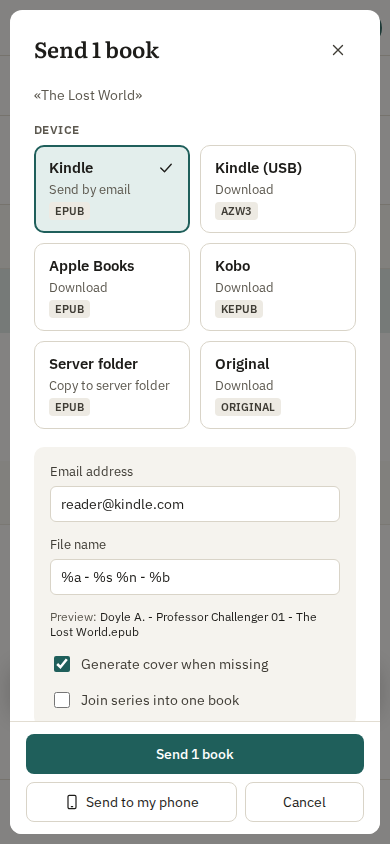
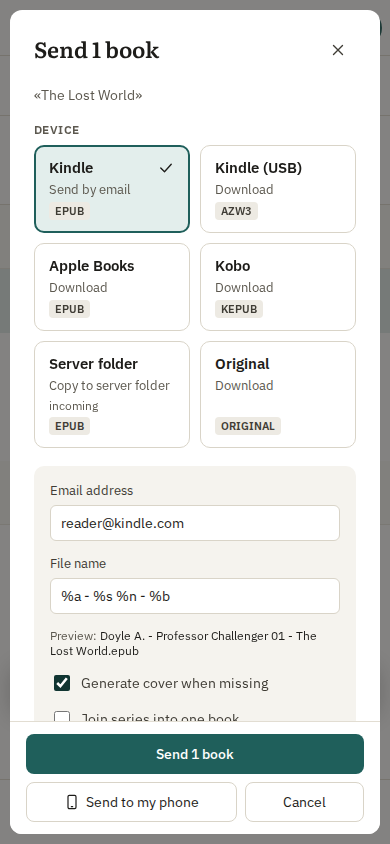
Folder devices: an empty folder is the export root, labelled as such
Revert the 400 for folder exports without a folder (server, mock, security
test): the seeded Server folder exports into FREELIB_EXPORT_DIR by design.
Instead of the misleading "no folder", Settings -> Devices and the send dialog
show "Export folder (root)" (en/ru/uk) or the sub-folder when one is set; the
send dialog no longer disables the device or asks for a folder. Docs and
live-ui tests follow; the keyboard test waits for editions to load.

Claude-Session: https://claude.ai/code/session_01CHpYdZBU1bJ65FXV23e9ED

diff --git a/web/src/lib/components/SendDialog.svelte b/web/src/lib/components/SendDialog.svelte
@@ -14,7 +14,6 @@
   import HandoffPanel from './HandoffPanel.svelte';
   import { openInBooks } from '../stores/devices.svelte';
   import { isIOS } from '../utils/platform';
-  import { sessionState } from '../stores/session.svelte';
 
   let { lib, bookIds, open, onClose, device: initialDevice, seriesIds = [] }: {
     lib: number; bookIds: number[]; open: boolean; onClose: () => void;
@@ -25,10 +24,6 @@
   } = $props();
 
   const ios = isIOS();
-  const admin = $derived(sessionState.openMode || sessionState.user?.role === 'admin');
-  /** a server folder device without a folder: admins type one here, readers cannot use it */
-  const noFolder = (d: Device) => d.kind === 'folder' && !(d.target ?? '').trim();
-  const unavailable = (d: Device) => noFolder(d) && !admin;
   let phone = $state(false);
   let seriesNames = $state<string[]>([]);
 
@@ -54,11 +49,7 @@
     } else {
       Promise.all(bookIds.slice(0, 30).map((id) => api.book(lib, id))).then((list) => { books = list; }).catch(() => {});
     }
-    if (devicesState.items.length && deviceId === null) {
-      const usable = devicesState.items.filter((d) => !unavailable(d));
-      const want = [initialDevice, defaultDevice()?.id].find((id) => id !== undefined && usable.some((d) => d.id === id));
-      deviceId = want ?? usable[0]?.id ?? null;
-    }
+    if (devicesState.items.length && deviceId === null) deviceId = initialDevice ?? defaultDevice()?.id ?? devicesState.items[0].id;
   });
 
   $effect(() => {
@@ -74,8 +65,6 @@
 
   const device = $derived(devicesState.items.find((d) => d.id === deviceId) ?? null);
   const needsAddress = $derived(device?.kind === 'email' && !target.trim());
-  const needsFolder = $derived(device?.kind === 'folder' && !target.trim());
-  const missingFolderDevices = $derived(devicesState.items.filter(unavailable));
   const isSeries = $derived(seriesIds.length > 0);
   const titleLine = $derived(
     isSeries
@@ -153,16 +142,11 @@
   <fieldset class="devices">
     <legend>{t('send.device')}</legend>
     {#each devicesState.items as d (d.id)}
-      {@const off = unavailable(d)}
       <button
         type="button"
         aria-pressed={d.id === deviceId}
         class="device-card"
         class:on={d.id === deviceId}
-        class:off
-        disabled={off}
-        aria-describedby={off ? 'send-no-folder' : undefined}
-        data-testid="device-card"
         onclick={() => (deviceId = d.id)}
       >
         <span class="row">
@@ -170,24 +154,20 @@
           {#if d.id === deviceId}<Icon name="check" size={18} />{/if}
         </span>
         <span class="how">{d.kind === 'email' ? t('send.how.email') : d.kind === 'folder' ? t('send.how.folder') : t('send.how.download')}</span>
-        {#if off}<span class="how warn">{t('settings.devices.noFolder')}</span>{/if}
+        {#if d.kind === 'folder'}
+          <!-- an empty folder is the export folder itself -->
+          <span class="how folder" data-testid="device-folder">{(d.target ?? '').trim() || t('device.exportRoot')}</span>
+        {/if}
         <span class="fmt">{d.format.toUpperCase()}</span>
       </button>
     {/each}
   </fieldset>
-  {#if missingFolderDevices.length}
-    <div class="note no-folder" id="send-no-folder" data-testid="send-no-folder">
-      <Icon name="alert" size={16} />
-      <span>{t('send.noFolderHint', { names: missingFolderDevices.map((d) => `«${d.name}»`).join(', ') })}
-        <a href="/settings/devices" data-link>{t('send.devicesSettings')}</a></span>
-    </div>
-  {/if}
 
   {#if device}
     <div class="options">
       {#if device.kind !== 'download'}
         <label>{destLabel(device)}
-          <input type="text" bind:value={target} placeholder={device.kind === 'email' ? 'name@kindle.com' : t('send.folderPlaceholder')} />
+          <input type="text" bind:value={target} placeholder={device.kind === 'email' ? 'name@kindle.com' : t('device.exportRoot')} />
         </label>
       {/if}
       <label class:wide={device.kind === 'download'}>{t('send.fileName')}
@@ -215,10 +195,10 @@
     {#if single && !ios}
       <button type="button" class="secondary" data-testid="send-dialog-phone" aria-pressed={phone} onclick={() => (phone = !phone)}><Icon name="phone" size={16} />{t('phone.action')}</button>
     {/if}
-    <span class="bg-note" class:warn={needsAddress || needsFolder}>{needsAddress ? t('send.needAddress') : needsFolder ? t('send.needFolder') : t('send.background')}</span>
+    <span class="bg-note" class:warn={needsAddress}>{needsAddress ? t('send.needAddress') : t('send.background')}</span>
     <button type="button" class="secondary cancel" onclick={onClose}>{t('send.cancel')}</button>
     <!-- svelte-ignore a11y_autofocus -->
-    <button type="button" class="primary" data-testid="send-submit" autofocus disabled={!device || sending || needsAddress || needsFolder} onclick={submit}>{actionLabel(device)}</button>
+    <button type="button" class="primary" data-testid="send-submit" autofocus disabled={!device || sending || needsAddress} onclick={submit}>{actionLabel(device)}</button>
   </div>
 </Dialog>
 
@@ -269,11 +249,7 @@
     .footer button.secondary { order: 2; flex: 1 1 auto; justify-content: center; min-width: 0; }
     .footer button { white-space: normal; text-align: center; }
   }
-  .device-card.off { opacity: .6; cursor: not-allowed; border-style: dashed; }
-  .how.warn { color: var(--amber); }
-  .no-folder { align-items: flex-start; color: var(--muted-2); }
-  .no-folder :global(svg) { flex-shrink: 0; color: var(--amber); margin-top: 1px; }
-  .no-folder a { color: var(--accent); }
+  .how.folder { font-size: 12px; max-width: 100%; overflow: hidden; text-overflow: ellipsis; white-space: nowrap; }
   .bg-note.warn { color: var(--amber); }
   button.secondary { display: flex; align-items: center; height: 40px; padding: 0 16px; border-radius: 8px; border: 1px solid var(--border); background: var(--surface); color: var(--ink); font-size: 14px; }
   button.primary { display: flex; align-items: center; gap: 8px; height: 40px; padding: 0 18px; border: none; border-radius: 8px; background: var(--accent); color: #fff; font-size: 14px; font-weight: 500; }

diff --git a/web/tests/live-ui.spec.ts b/web/tests/live-ui.spec.ts
@@ -471,6 +471,8 @@ test('book list: arrows move over rows, group headers and editions; Home/End, Sp
   await work.click();
   await page.keyboard.press('ArrowRight');
   await expect(work.getByTestId('editions-toggle')).toHaveAttribute('aria-expanded', 'true');
+  // the editions load on demand
+  await expect(page.getByTestId('edition-row').first()).toBeVisible();
   await page.keyboard.press('ArrowDown');
   expect((await current())!.kind).toBe('edition-row');
   await page.keyboard.press('ArrowLeft');
@@ -578,9 +580,9 @@ test.describe('phone letter strip', () => {
   });
 });
 
-// ---- 21. folder devices without a folder -------------------------------------------------
+// ---- 21. folder devices: an empty folder is the export root -------------------------------
 
-test('a folder device without a folder: unavailable for readers, a folder is needed for admins', async ({ page }) => {
+test('a folder device without a folder is labelled as the export root, and can be used', async ({ page }) => {
   await page.setViewportSize({ width: 1440, height: 900 });
   await page.route('**/api/v1/devices', async (route) => {
     if (route.request().method() !== 'GET') return route.continue();
@@ -589,31 +591,28 @@ test('a folder device without a folder: unavailable for readers, a folder is nee
     for (const d of list) if (d.kind === 'folder') d.target = null;
     await route.fulfill({ response: res, json: list });
   });
-  // an administrator (the mock's open mode): the card can be picked, but a folder is required
   await openHound(page);
   await page.getByRole('checkbox', { name: 'Select The Hound of the Baskervilles' }).check();
   await page.getByTestId('selection-send').click();
   const dialog = page.getByRole('dialog');
-  await dialog.getByRole('button', { name: /Server folder/ }).click();
-  await expect(dialog.getByTestId('send-submit')).toBeDisabled();
-  await expect(dialog.locator('.bg-note')).toContainText('Enter a folder');
-  await dialog.getByPlaceholder('a sub-folder of the export folder').fill('incoming');
+  const card = dialog.getByRole('button', { name: /Server folder/ });
+  await expect(card).toBeEnabled();
+  await expect(card.getByTestId('device-folder')).toHaveText('Export folder (root)');
+  await card.click();
+  await expect(dialog.getByPlaceholder('Export folder (root)')).toHaveValue('');
   await expect(dialog.getByTestId('send-submit')).toBeEnabled();
   await page.keyboard.press('Escape');
+  await page.getByRole('checkbox', { name: 'Select The Hound of the Baskervilles' }).uncheck();
 
-  // a reader: the device is shown as unavailable, with a way to the device settings
-  await page.route('**/api/v1/session', (route) => route.fulfill({
-    json: { user: { id: 2, username: 'reader', role: 'reader' }, openMode: false, auth: { password: true, oidc: null } },
-  }));
-  await page.reload();
-  await expect(page.getByText('The Hound of the Baskervilles').first()).toBeVisible({ timeout: 15000 });
-  await page.getByRole('checkbox', { name: 'Select The Hound of the Baskervilles' }).check();
-  await page.getByTestId('selection-send').click();
-  const card = dialog.getByRole('button', { name: /Server folder/ });
-  await expect(card).toBeDisabled();
-  await expect(card).toContainText('no folder');
-  const hint = dialog.getByTestId('send-no-folder');
-  await expect(hint).toContainText('«Server folder»');
-  await hint.getByRole('link', { name: 'Settings → Devices' }).click();
-  await expect(page).toHaveURL(/\/settings\/devices$/);
+  // Settings → Devices: the same label, not a warning
+  await page.goto('/settings/devices');
+  const row = page.locator('.device-row', { hasText: 'Server folder' });
+  await expect(row.getByTestId('device-folder')).toHaveText('Export folder (root)');
+});
+
+test('a folder device with a sub-folder shows it', async ({ page }) => {
+  await page.setViewportSize({ width: 1440, height: 900 });
+  await page.goto('/settings/devices');
+  // the mock's Server folder has the sub-folder "incoming"
+  await expect(page.locator('.device-row', { hasText: 'Server folder' })).toContainText('incoming');
 });

diff --git a/web/tests-real/live-ui.spec.ts b/web/tests-real/live-ui.spec.ts
@@ -2,8 +2,8 @@ import { test, expect } from '@playwright/test';
 import { pickFb2Book } from './helpers';
 
 // Against the real server: a bad reader link shows a not-found card (the API answers 404),
-// leaving the reader leaves no errors behind, and a folder device without a folder is refused
-// with a clear message.
+// leaving the reader leaves no errors behind, and a folder device without a folder exports
+// into the export folder itself.
 
 test('reader: a bad book id shows "Book not found", a real book cleans up when left', async ({ page, request }) => {
   const errors: string[] = [];
@@ -25,12 +25,12 @@ test('reader: a bad book id shows "Book not found", a real book cleans up when l
   expect(errors, errors.join('\n')).toEqual([]);
 });
 
-test('a folder device without a folder is refused with a clear error', async ({ request }) => {
+test('a folder device without a folder exports into the export root', async ({ request }) => {
   const devices = (await (await request.get('/api/v1/devices')).json()) as { id: number; kind: string; target: string | null }[];
   const folder = devices.find((d) => d.kind === 'folder' && !(d.target ?? '').trim());
   test.skip(!folder, 'no folder device without a folder');
   const book = await pickFb2Book(request);
   const r = await request.post('/api/v1/send', { data: { library: 1, books: [book.id], device: folder!.id } });
-  expect(r.status()).toBe(400);
-  expect((await r.json()).message).toContain('no folder set');
+  expect(r.status(), await r.text()).toBe(200);
+  expect((await r.json()).kind).toBe('export');
 });

diff --git a/web/src/lib/routes/SettingsPage.svelte b/web/src/lib/routes/SettingsPage.svelte
@@ -337,7 +337,7 @@
             <div class="dinfo">
               <span class="name">{d.name}</span>
               <span class="muted">
-                {kindLabel(d.kind)} · {d.format.toUpperCase()}{#if d.kind !== 'download'}{' · '}{#if d.target}<span class="target">{d.target}</span>{:else}<span class="warn">{d.kind === 'email' ? t('settings.devices.noAddress') : t('settings.devices.noFolder')}</span>{/if}{/if}
+                {kindLabel(d.kind)} · {d.format.toUpperCase()}{#if d.kind !== 'download'}{' · '}{#if d.target}<span class="target">{d.target}</span>{:else if d.kind === 'folder'}<span class="target" data-testid="device-folder">{t('device.exportRoot')}</span>{:else}<span class="warn">{t('settings.devices.noAddress')}</span>{/if}{/if}
               </span>
             </div>
             {#if i === 0}<span class="badge default-badge" title={t('settings.devices.defaultHint')}>{t('settings.devices.default')}</span>{/if}

diff --git a/web/mock/server.ts b/web/mock/server.ts
@@ -738,9 +738,6 @@ export function installMockApi(server: Connect.Server) {
             new RegExp('^' + p.toLowerCase().split('*').map((x) => x.replace(/[.+?^${}()|[\]\\]/g, '\\$&')).join('.*') + '$').test(to));
           if (!ok) return fail(res, 403, 'forbidden', `${to} is not an allowed recipient`);
         }
-        if (device.kind === 'folder' && !String(body.target || device.target || '').trim()) {
-          return fail(res, 400, 'bad_request', `the device "${device.name}" has no folder set; choose one in Settings → Devices`);
-        }
         const kind = device.kind === 'email' ? 'send' : device.kind === 'folder' ? 'export' : 'download';
         // "send whole series": the series' live books in reading order (like the server)
         const lib = catalog(Number(body.library) || 1);

diff --git a/server/crates/server/tests/security.rs b/server/crates/server/tests/security.rs
@@ -391,31 +391,6 @@ async fn users_jobs_and_folders() {
     let folder = find("Server folder");
     let original = find("Original");
     let ids = fb2_ids(&app, lib, 200).await;
-    // the preset has no folder yet: a clear 400, not an export into the export root
-    let r = app
-        .post(
-            "/api/v1/send",
-            &json!({"library": lib, "books": [ids[0]], "device": folder}),
-        )
-        .await;
-    assert_eq!(r.status, StatusCode::BAD_REQUEST);
-    assert!(r.text().contains("no folder set"), "{}", r.text());
-    // an administrator sets one
-    let reader_cookie = app.cookie.clone();
-    app.cookie = admin_cookie.clone();
-    let mut dev = devices
-        .as_array()
-        .unwrap()
-        .iter()
-        .find(|d| d["name"] == "Server folder")
-        .unwrap()
-        .clone();
-    dev["target"] = json!("shared");
-    let r = app
-        .put(&format!("/api/v1/devices/{}", dev["id"]), &dev)
-        .await;
-    assert_eq!(r.status, StatusCode::OK, "{}", r.text());
-    app.cookie = reader_cookie;
     // … nor pick another folder of a shared one
     let r = app
         .post(

diff --git a/server/crates/server/src/sender.rs b/server/crates/server/src/sender.rs
@@ -236,15 +236,8 @@ pub async fn start(st: &AppState, user: &User, mut req: SendRequest) -> ApiResul
                     "only administrators can choose server folders",
                 ));
             }
-            // a folder device needs a folder: its own or (admins) one typed for this export
-            let Some(sub) = safe_subdir(target.as_deref().unwrap_or("")) else {
+            if safe_subdir(target.as_deref().unwrap_or("")).is_none() {
                 return Err(ApiError::bad_request("invalid target folder"));
-            };
-            if sub.as_os_str().is_empty() {
-                return Err(ApiError::bad_request(format!(
-                    "the device \"{}\" has no folder set; choose one in Settings → Devices",
-                    dev.name
-                )));
             }
         }
         "download" => {}

diff --git a/docs/web/API.md b/docs/web/API.md
@@ -293,7 +293,7 @@ Books of a shelf: `GET /libraries/:lib/books?shelf=:id`.
 | `PUT /devices/:id` | `Device` | `Device` (shared and folder devices: admin only) |
 | `DELETE /devices/:id` | – | 204 |
 | `PUT /devices/order` | `{ids: number[]}` | `Device[]` in the new order. Per user: `ids` first (any subset of the devices the user sees, shared ones included), the others after them. `GET /devices` returns the user's order (devices never ordered follow, oldest first). **The first device is the user's default** (the quick-send button, the Send dialog's preselection, MCP `device: "default"`). 404 for an unknown id, 400 for duplicates |
-| `POST /send` | `{library, books: number[], series?: number[], device: number, target?: string, fileName?: string, options?: Partial<ConvertOptions>}` | `Job`. kind `send` for email, `export` for folder, `download` for download (result: single file or zip, see `downloadUrl`). `series` (≤ 20, "send whole series"): the series' live books in reading order, each title once (newest edition), after the explicit `books`; 404 for an unknown series. E-mail jobs convert all books, then send them in as few mails as `smtp.maxAttachments` / `smtp.maxMailMb` allow, retrying temporary SMTP failures (DEVICES.md); the job's `items` show each book's delivery state. `options` is merged (shallow) over the device's own options for this send only; the device itself is not changed. E-mail: the recipient must match `smtp.allowedRecipients` (403 `forbidden` otherwise, admins included) and the user's mails today plus this request's books must not exceed `smtp.dailyLimitPerUser` (429 `rate_limited`). Folder: readers may only use shared folder devices with their configured target (403); a folder device needs a folder — its own `target` or (admins) the request's — else 400 `bad_request` "… has no folder set; choose one in Settings → Devices" (the send dialog shows such a device as unavailable). At most 5 queued + running send/export/download jobs per user (429 `rate_limited`). Exports never overwrite: an existing file gets a ` (2)`, ` (3)`, … sibling. The daily mail limit counts mails; a request needs at least ⌈books / maxAttachments⌉ |
+| `POST /send` | `{library, books: number[], series?: number[], device: number, target?: string, fileName?: string, options?: Partial<ConvertOptions>}` | `Job`. kind `send` for email, `export` for folder, `download` for download (result: single file or zip, see `downloadUrl`). `series` (≤ 20, "send whole series"): the series' live books in reading order, each title once (newest edition), after the explicit `books`; 404 for an unknown series. E-mail jobs convert all books, then send them in as few mails as `smtp.maxAttachments` / `smtp.maxMailMb` allow, retrying temporary SMTP failures (DEVICES.md); the job's `items` show each book's delivery state. `options` is merged (shallow) over the device's own options for this send only; the device itself is not changed. E-mail: the recipient must match `smtp.allowedRecipients` (403 `forbidden` otherwise, admins included) and the user's mails today plus this request's books must not exceed `smtp.dailyLimitPerUser` (429 `rate_limited`). Folder: readers may only use shared folder devices with their configured target (403); an empty folder (`target` `""` or null, as on the seeded "Server folder") exports into the export folder itself (`FREELIB_EXPORT_DIR`), shown as "Export folder (root)" in the UI. At most 5 queued + running send/export/download jobs per user (429 `rate_limited`). Exports never overwrite: an existing file gets a ` (2)`, ` (3)`, … sibling. The daily mail limit counts mails; a request needs at least ⌈books / maxAttachments⌉ |
 | `POST /handoff` | `{library, book, device?: number, format?: string}` | `{url: "/h/<token>", absoluteUrl, expiresAt, maxUses: 3, format, fileName, title}`: a link for "Send to my phone" / "Open in Books". Format and options from `device` (default: the Apple Books device; e-mail devices give EPUB), `format` overrides. 15 minutes, 3 downloads, 20 links per user per 10 minutes (429). See DEVICES.md for the security properties |
 | `GET /fonts` | – | `string[]` font family names available for embedding |
 

diff --git a/docs/web/DEVICES.md b/docs/web/DEVICES.md
@@ -22,10 +22,9 @@ All presets use: cover generated when missing, annotation page, a new file per c
 of contents at the end (readers open at the "bodymatter" landmark, so it does not delay the
 first page), no drop caps, no transliteration.
 
-The Server folder device starts without a folder (Settings → Devices shows "no folder"). Until
-an administrator sets one (a sub-folder of `FREELIB_EXPORT_DIR`), the send dialog shows it as
-unavailable to readers, administrators type a folder for the export, and the server refuses an
-export without one (400 "… has no folder set").
+The Server folder device starts with an empty folder: it exports into the export folder itself
+(`FREELIB_EXPORT_DIR`), shown as "Export folder (root)" in Settings → Devices and in the send
+dialog. An administrator can set a sub-folder, which is then shown instead.
 
 **Upgrades.** Seeded devices carry a preset version. When a newer server ships better
 defaults, they are applied at startup to every seeded device whose *conversion options* were
